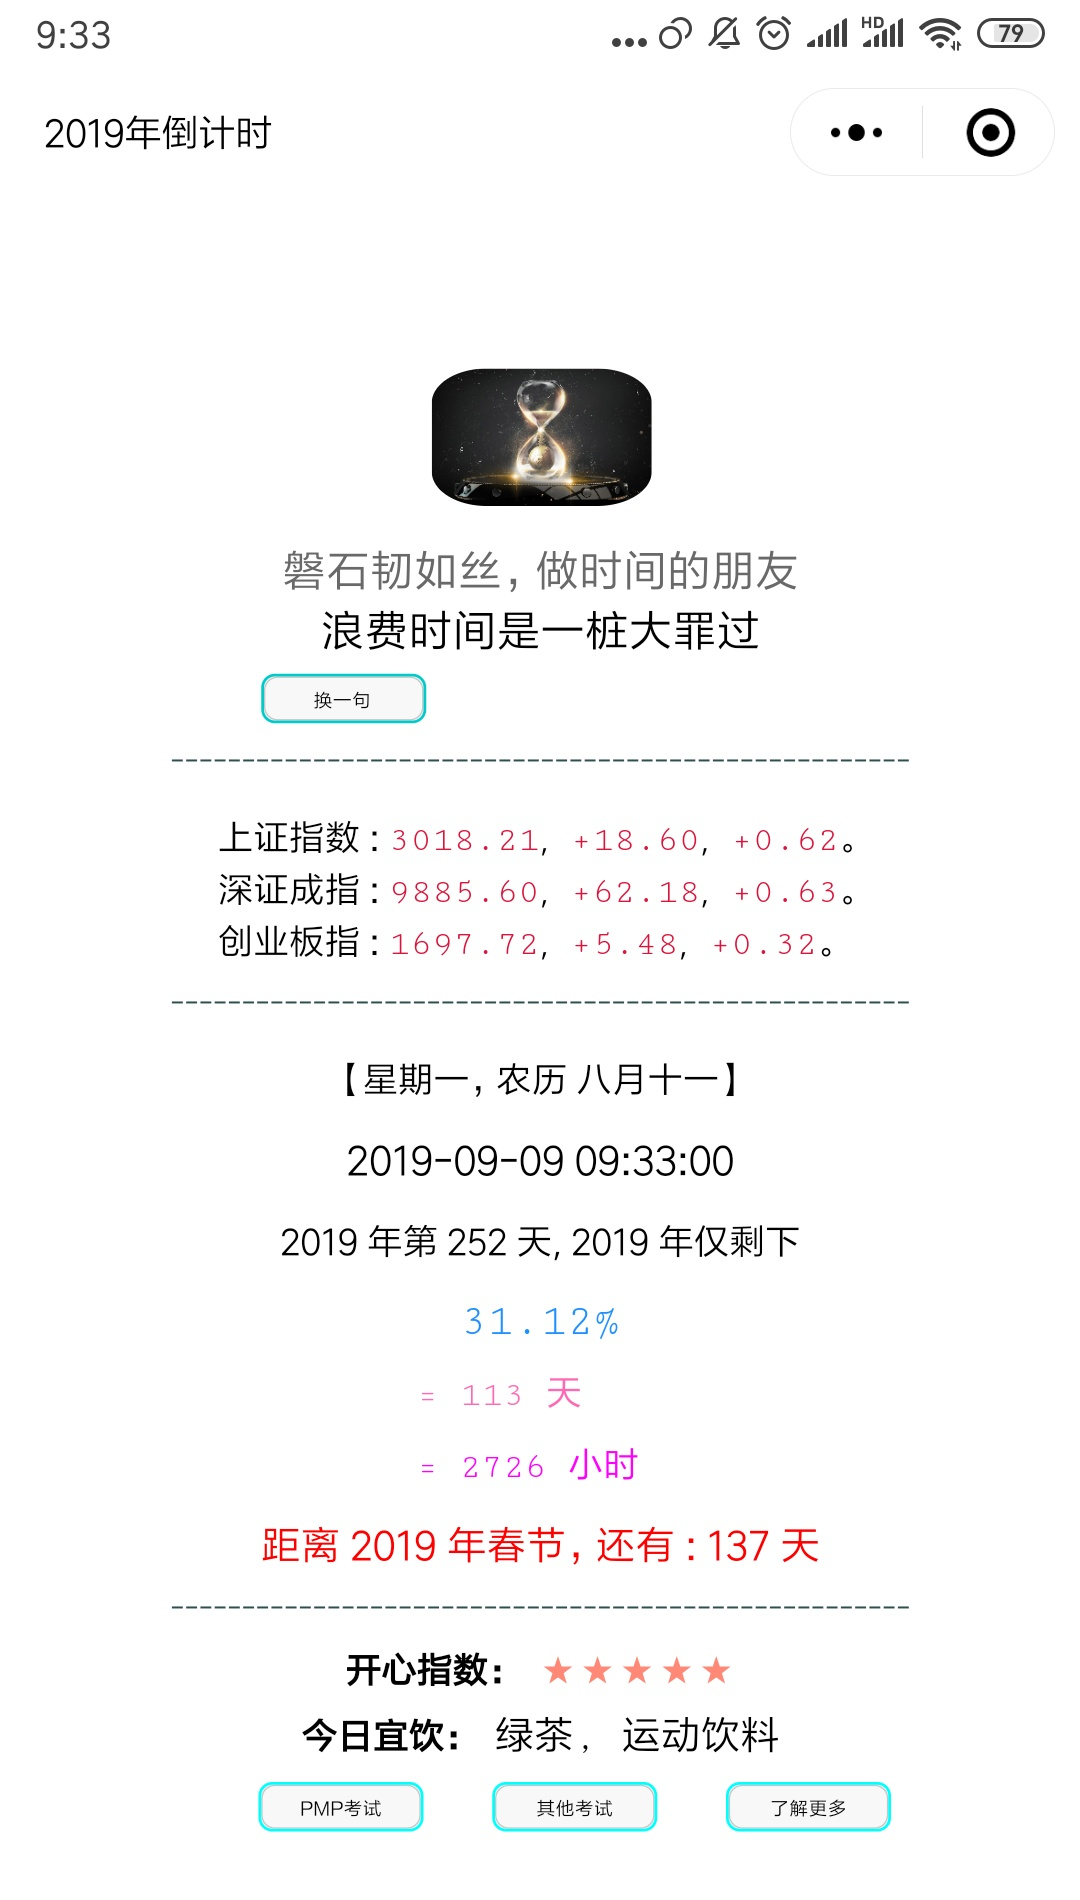
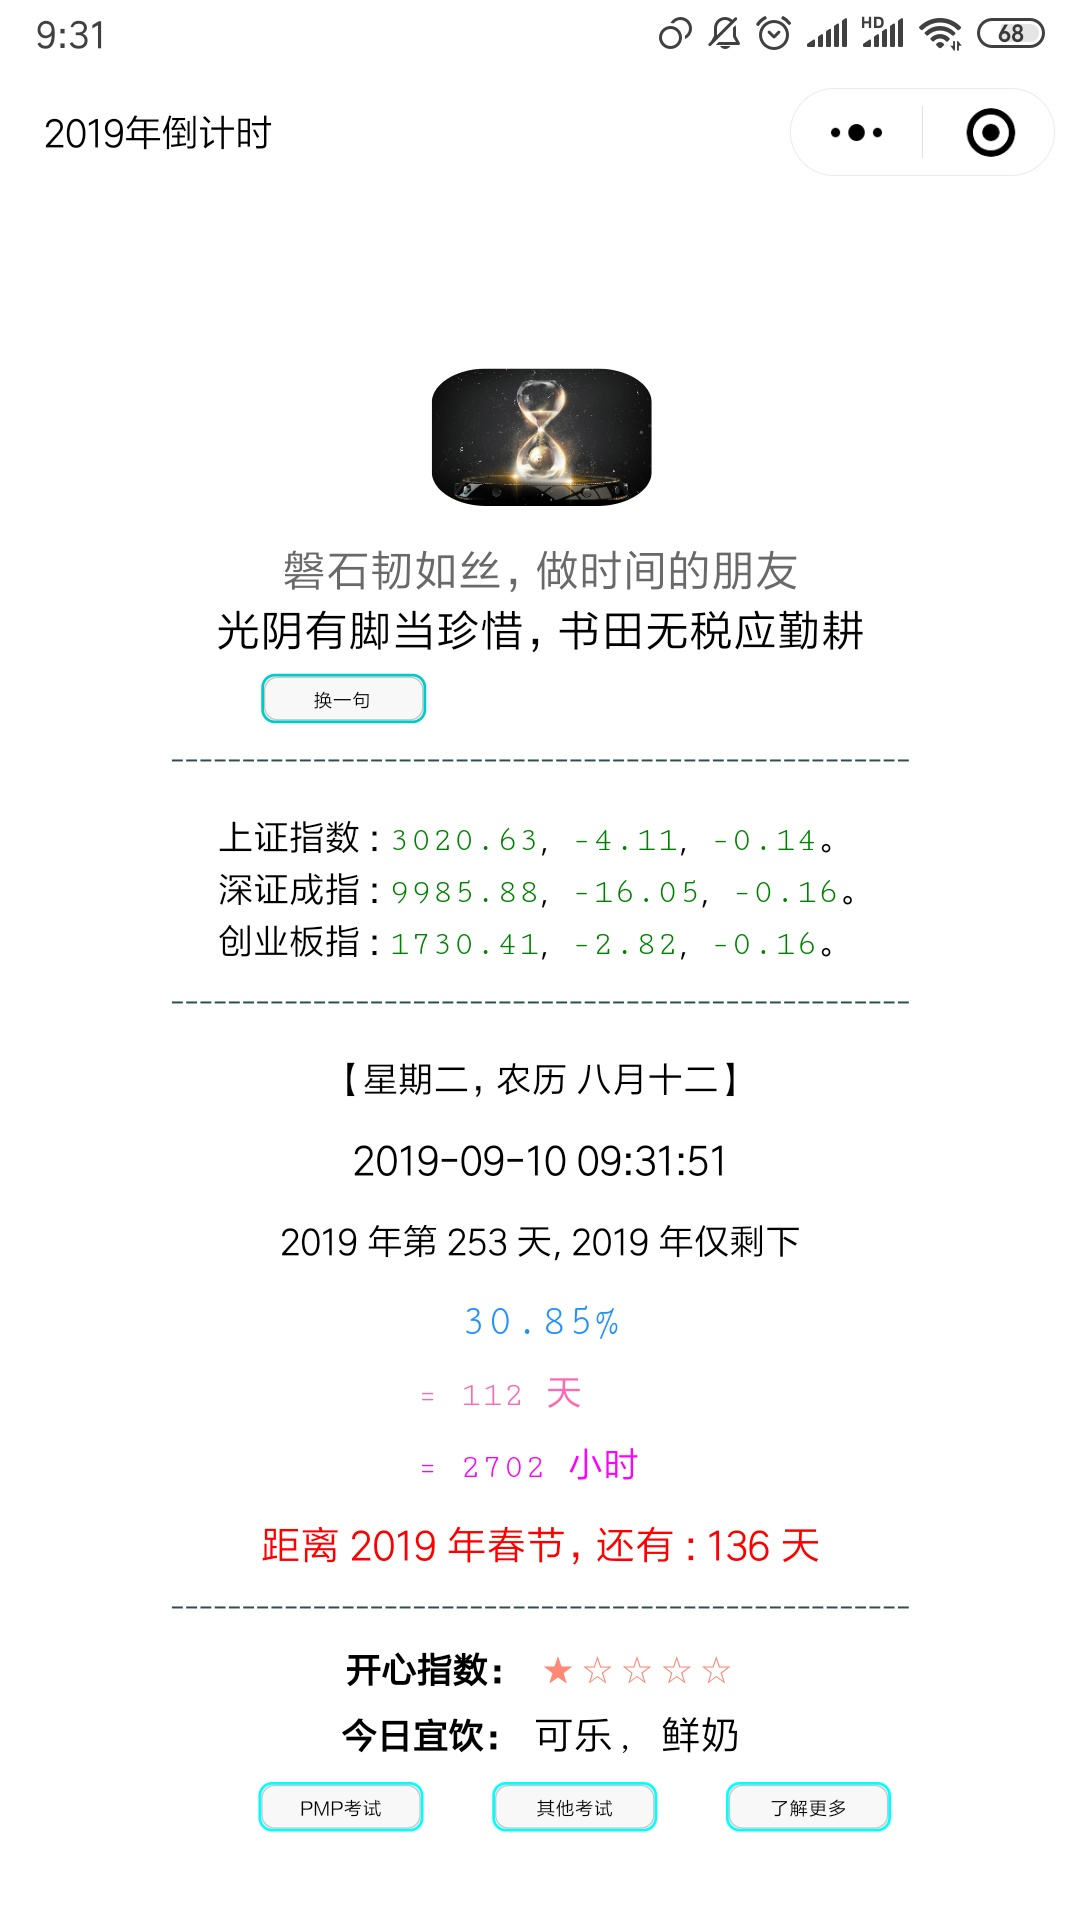
例行更新 20190910

diff --git a/source/_posts/001_2-FD_my_life_records-2019.md b/source/_posts/001_2-FD_my_life_records-2019.md
@@ -1,5 +1,5 @@
 ---
-title: 坚持的力量之数据人生-2019年9月9日
+title: 坚持的力量之数据人生-2019年9月10日
 tags:
   - 数据人生
   - 参考模板
@@ -20,18 +20,23 @@ keywords:
   - 宽978高553
 photos:
   - '/images/001_2/photos.png'
-description: 今天：2019 年 9 月 9 日，2019 年仅剩下 113 天。坚持记录和分析生活中的数据、信息和事件，尊重历史数据、信息和事件，人生将会更美好。
-date: 2019-09-09 00:02:05
+description: 今天：2019 年 9 月 10 日，2019 年仅剩下 112 天。坚持记录和分析生活中的数据、信息和事件，尊重历史数据、信息和事件，人生将会更美好。
+date: 2019-09-10 00:02:05
 ---
 <script type="text/javascript" src="/js/src/bai.js"></script>
 
-### 坚持的力量之数据人生-2019年9月9日
+### 坚持的力量之数据人生-2019年9月10日
 ------
-> 今天：2019 年 9 月 9 日，2019 年仅剩下 113 天。坚持记录和分析生活中的数据、信息和事件，尊重历史数据、信息和事件，人生将会更美好。
+> 今天：2019 年 9 月 10 日，2019 年仅剩下 112 天。坚持记录和分析生活中的数据、信息和事件，尊重历史数据、信息和事件，人生将会更美好。
 >
 > 序言：坚持记录和分析生活中的数据、信息和事件，尊重历史数据、信息和事件，人生将会更美好。
 
 ------
+
+#### [我的微信公众号](https://mp.weixin.qq.com/s/xxIkfGMFU7BaCeCJtdrtDg)
+
+* 公众号：<img src="/images/about/juBKMkS.jpg" width="450" height="500" align=center></img>
+
 #### 2019 年年历
 > 2019 年年历。
 >
@@ -67,14 +72,14 @@ date: 2019-09-09 00:02:05
 
 | 序号 |       名称                                            |  类型  | 开始/结束日期 | 总天数 |          备注                           |
 | :--: | :---------------------------------------------------: | :----: | :-----------: | :----: | :-------------------------------------: |
-|  1   | <font color="#FF0000" size=2>读书荐书第 4/4 更</font> | 倒计时 | 2019/10/01    |  21    | 开始时间：2019/7/1                      |
-|  2   | <font color="#FF0000" size=2>重要节点</font>          | 倒计时 | 2020/03/01    |  177   | 开始时间：2018/6/15 剩余 10 个月        |
-|  3   | <font color="#0000FF" size=2>来上海</font>            | 计时   | 2011/06/25    |  2938  | 第 8 年进行中                           |
-|  4   | <font color="#0000FF" size=2>莫名其妙的计时</font>    | 计时   | 2018/11/12    |  297   | 莫名其妙的计时，希望永远不会停 ！！！   |
+|  1   | <font color="#FF0000" size=2>读书荐书第 4/4 更</font> | 倒计时 | 2019/10/01    |  20    | 开始时间：2019/7/1                      |
+|  2   | <font color="#FF0000" size=2>重要节点</font>          | 倒计时 | 2020/03/01    |  176   | 开始时间：2018/6/15 剩余 10 个月        |
+|  3   | <font color="#0000FF" size=2>来上海</font>            | 计时   | 2011/06/25    |  2939  | 第 8 年进行中                           |
+|  4   | <font color="#0000FF" size=2>莫名其妙的计时</font>    | 计时   | 2018/11/12    |  298   | 莫名其妙的计时，希望永远不会停 ！！！   |
 |  5   | <font color="#FF00FF" size=2>博客总计博文</font>      | 计数   | 2018/08/01    |  207   | [博客](/archives) 博文总计数目          |
 |  6   | <font color="#FF00FF" size=2>读书心得札记</font>      | 计数   | 2018/05/26    |  69    | [读书心得笔记并做笔记](/tags/札记人生/) |
 |  7   | <font color="#FF00FF" size=2>五篇好文推荐</font>      | 计数   | 2018/10/24    |  50    | [美文推荐](/tags/美文推荐/)             |
-|  8   | <font color="#FF00FF" size=2>公众号更新</font>        | 计数   | 2018/12/01    |  108   | [微信公众号（4 篇删除）](https://mp.weixin.qq.com/s/xxIkfGMFU7BaCeCJtdrtDg) |
+|  8   | <font color="#FF00FF" size=2>公众号更新</font>        | 计数   | 2018/12/01    |  109   | [微信公众号（4 篇删除）](https://mp.weixin.qq.com/s/xxIkfGMFU7BaCeCJtdrtDg) |
 
 #### 2. ❤ 今天记账了吗？记了，✔。 ❤
 ##### 2.1 记账信息详情
@@ -82,11 +87,11 @@ date: 2019-09-09 00:02:05
 
 | 日期                                   | 记账新增记录 | 记账总记录 | 记账总天数 | 记账时间      | 备注     |
 | :------:                               | :------:     | :------:   | :------:   | :------:      | :------: |
-|<font color="#000000"> 20190905 </font> | 4            | 10765      | 3118       | 8 年零 189 天 | 无       |
 |<font color="#000000"> 20190906 </font> | 27           | 10792      | 3119       | 8 年零 190 天 | 无       |
 |<font color="#000000"> 20190907 </font> | 4            | 10796      | 3120       | 8 年零 191 天 | 无       |
 |<font color="#000000"> 20190908 </font> | 12           | 10808      | 3121       | 8 年零 192 天 | 无       |
-|<font color="#FF0000"> 20190909 </font> | 7            | 10815      | 3122       | 8 年零 193 天 | 无       |
+|<font color="#000000"> 20190909 </font> | 7            | 10815      | 3122       | 8 年零 193 天 | 无       |
+|<font color="#FF0000"> 20190910 </font> | 6            | 10821      | 3123       | 8 年零 194 天 | 无       |
 
 
 #### 3. 历史数据汇总

diff --git a/source/_posts/001_1-FD_2018_year_all_checker-2019.md b/source/_posts/001_1-FD_2018_year_all_checker-2019.md
@@ -1,5 +1,5 @@
 ---
-title: 2019年每日日常综合打卡-2019年9月9日
+title: 2019年每日日常综合打卡-2019年9月10日
 tags:
   - 数据人生
   - 参考模板
@@ -21,15 +21,19 @@ keywords:
   - 宽978高553
 photos:
   - '/images/001_1/photos.png'
-description: 今天：2019 年 9 月 9 日，2019 年仅剩下 113 天。每天坚持打卡，9 月份针对每个任务打卡，慢慢来，一切都会更好的。
-date: 2019-09-09 00:01:01
+description: 今天：2019 年 9 月 10 日，2019 年仅剩下 112 天。每天坚持打卡，9 月份针对每个任务打卡，慢慢来，一切都会更好的。
+date: 2019-09-10 00:01:01
 ---
 <script type="text/javascript" src="/js/src/bai.js"></script>
 
-### 2019年每日日常综合打卡-2019年9月9日
+### 2019年每日日常综合打卡-2019年9月10日
 ---
-> 今天：2019 年 9 月 9 日，2018 年仅剩下 113 天。每日打卡，9 月份针对每个任务打卡，慢慢来，一切都会更好的。
+> 今天：2019 年 9 月 10 日，2018 年仅剩下 112 天。每日打卡，9 月份针对每个任务打卡，慢慢来，一切都会更好的。
 ---
+
+#### [我的微信公众号](https://mp.weixin.qq.com/s/xxIkfGMFU7BaCeCJtdrtDg)
+
+* 公众号：<img src="/images/about/juBKMkS.jpg" width="450" height="500" align=center></img>
 
 #### 2019 年年历
 > 2019 年年历。
@@ -60,7 +64,7 @@ date: 2019-09-09 00:01:01
 |  7 |一 ⭕  |四 ⭕  |四 ⭕  |日 ⭕  |二 ⭕  |五 ⭕  |日 ⭕  |三 ⭕  |六 ⭕  |一     |四     |六     |
 |  8 |二 ⭕  |五 ⭕  |五 ⭕  |一 ⭕  |三 ⭕  |六 ⭕  |一 ⭕  |四 ⭕  |日 ⭕  |二     |五     |日     |
 |  9 |三 ⭕  |六 ⭕  |六 ⭕  |二 ⭕  |四 ⭕  |日 ⭕  |二 ⭕  |五 ⭕  |一 ⭕  |三     |六     |一     |
-| 10 |四 ⭕  |日 ⭕  |日 ⭕  |三 ⭕  |五 ⭕  |一 ⭕  |三 ⭕  |六 ⭕  |二     |四     |日     |二     |
+| 10 |四 ⭕  |日 ⭕  |日 ⭕  |三 ⭕  |五 ⭕  |一 ⭕  |三 ⭕  |六 ⭕  |二 ⭕  |四     |日     |二     |
 | 11 |五 ⭕  |一 ⭕  |一 ⭕  |四 ⭕  |六 ⭕  |二 ⭕  |四 ⭕  |日 ⭕  |三     |五     |一     |三     |
 | 12 |六 ⭕  |二 ⭕  |二 ⭕  |五 ⭕  |日 ⭕  |三 ⭕  |五 ⭕  |一 ⭕  |四     |六     |二     |四     |
 | 13 |日 ⭕  |三 ⭕  |三 ⭕  |六 ⭕  |一 ⭕  |四 ⭕  |六 ⭕  |二 ⭕  |五     |日     |三     |五     |
@@ -98,7 +102,7 @@ date: 2019-09-09 00:01:01
 |  7 <font color="#FF0000">六</font> | ⭕        | ⭕        | ⭕        | ⭕        | ⭕        | ⭕        |           |
 |  8 <font color="#FF0000">日</font> | ⭕        | ⭕        | ⭕        | ⭕        | ⭕         | ⭕        |           |
 |  9 <font color="#000000">一</font> | ⭕        | ⭕        | ⭕        | ⭕        | ⭕        | ⭕        |           |
-| 10 <font color="#000000">二</font> |           |           |           |           |           |           |           |
+| 10 <font color="#000000">二</font> | ⭕        | ⭕        | ⭕        | ⭕        | ⭕        | ⭕        |           |
 | 11 <font color="#000000">三</font> |           |           |           |           |           |           |           |
 | 12 <font color="#000000">四</font> |           |           |           |           |           |           |           |
 | 13 <font color="#000000">五</font> |           |           |           |           |           |           |           |
